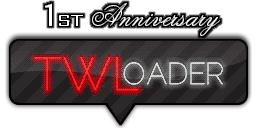
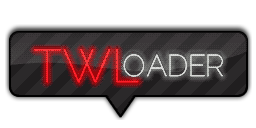
1st Anniversary is over!

diff --git a/gui/source/main.cpp b/gui/source/main.cpp
@@ -2049,7 +2049,7 @@ void dsiMenuTheme_loadingScreen() {
 	pp2d_end_draw();
 }
 
-bool showAnniversaryText = true;
+bool showAnniversaryText = false;
 
 int main(){
 	botscreenoff();
